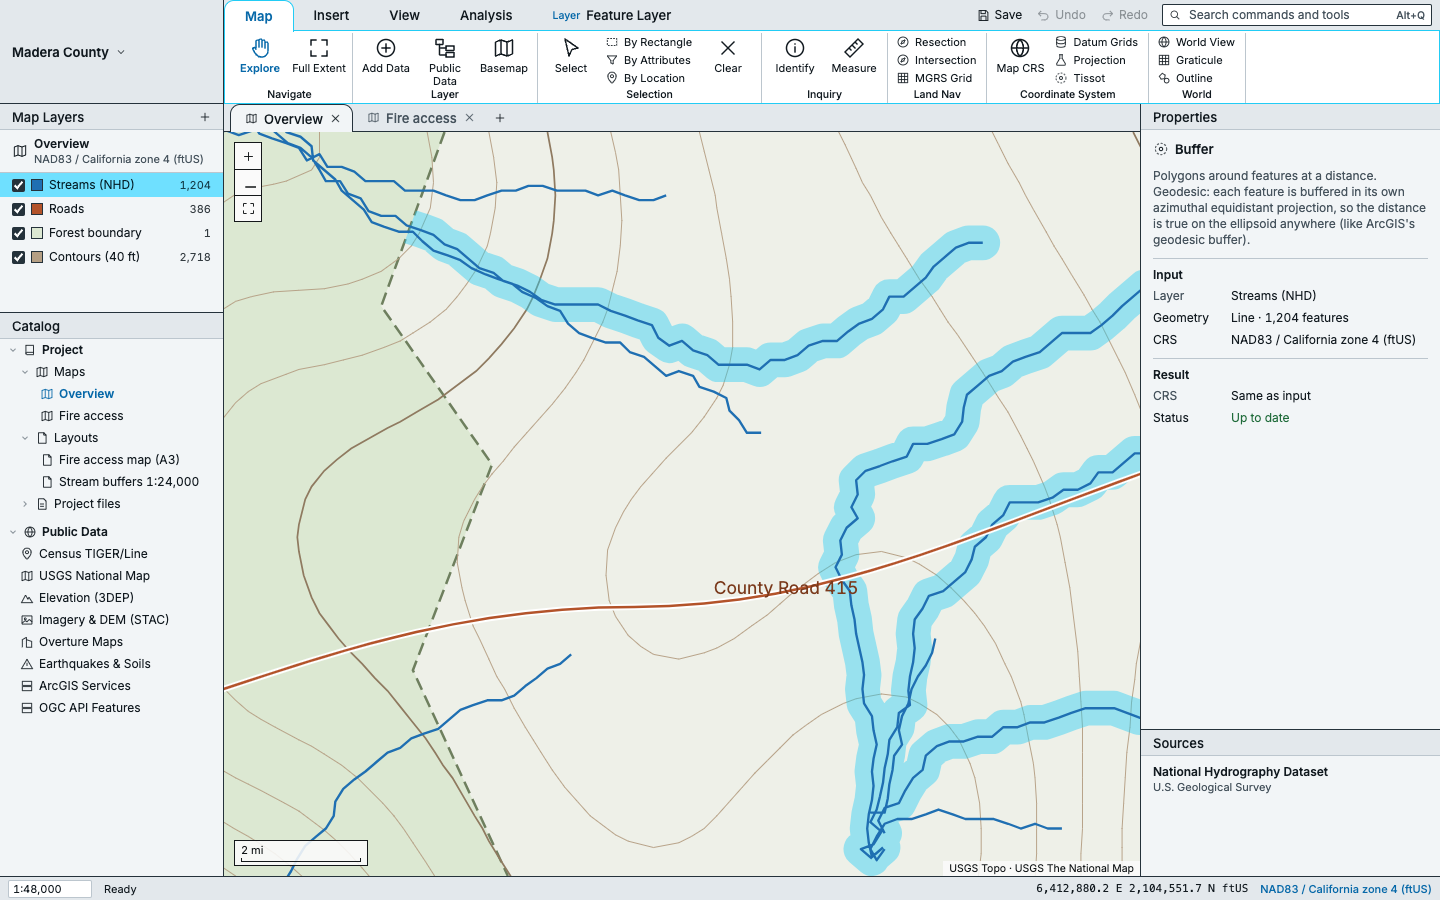
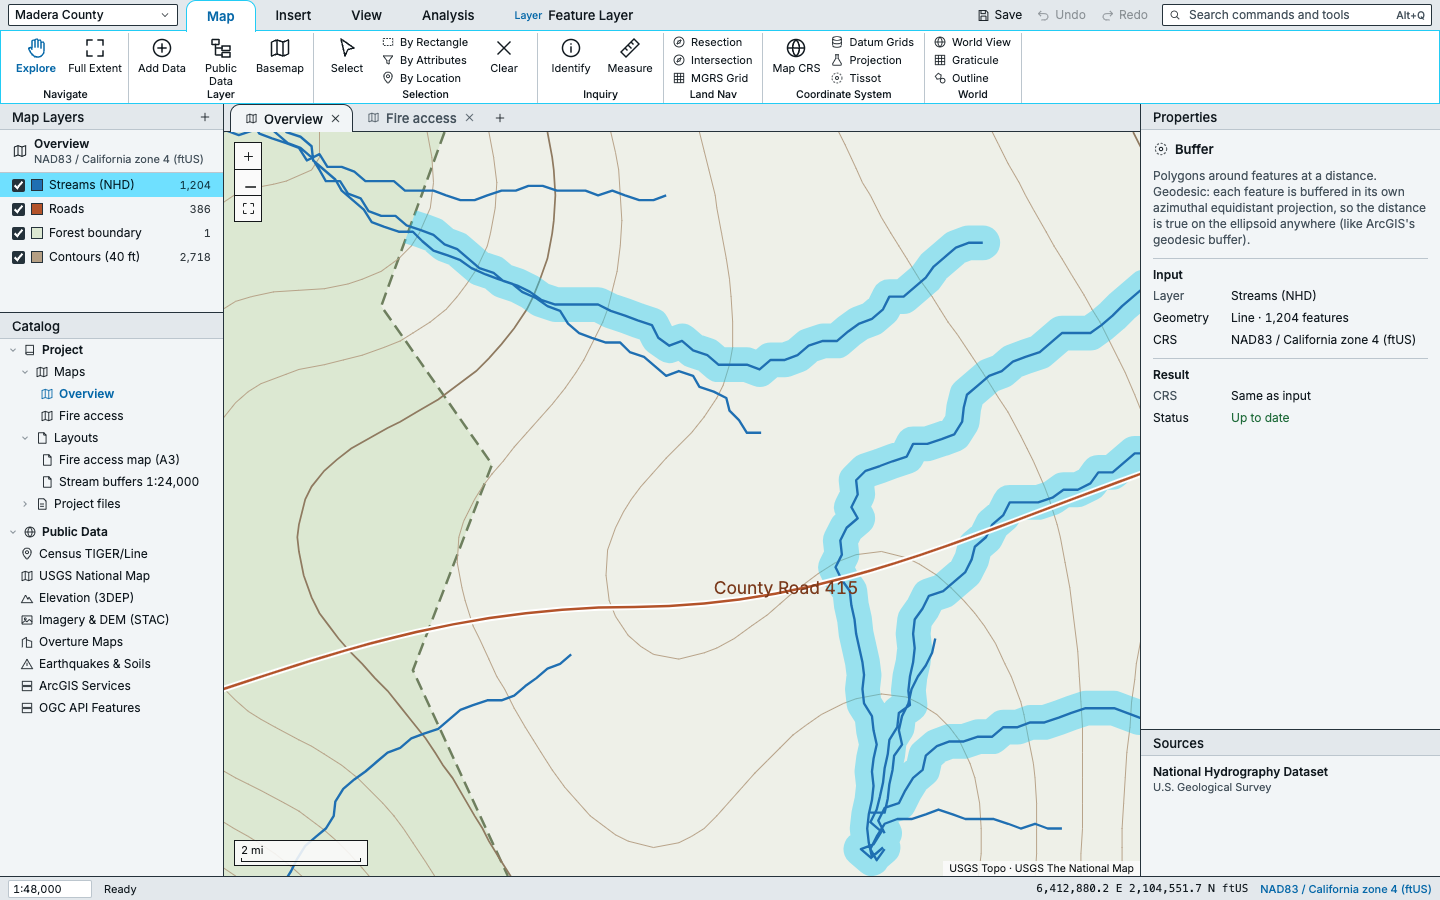
UI redesign mock-ups: full-width toolbar, project menu as a small box in the tab row [skip ci]

Changed region(s): [[0.0, 0.0, 0.8438, 0.1244]]

diff --git a/docs/design/layout-options-mockup.html b/docs/design/layout-options-mockup.html
@@ -98,6 +98,9 @@ button.it.w{width:100%;text-align:left}.it:hover{background:var(--hover)}.it.sel
 .mlow{display:grid;grid-template-columns:1fr 1fr;gap:16px}.mlow h3{margin:0 0 6px;font:600 13px/18px Inter,system-ui,sans-serif}.mlow table{border-collapse:collapse;width:100%;background:var(--surface-2)}.mlow th,.mlow td{border:1px solid var(--rule-soft);padding:3px 8px;text-align:left;font-size:12px;line-height:16px}.mlow th{font-weight:600;white-space:nowrap;width:96px}.rules{margin:0;padding-left:16px;line-height:18px}
 .qa{display:flex;align-items:center;gap:2px;margin:0 8px 4px 0;height:22px}.qa button{display:inline-flex;align-items:center;gap:4px;height:22px;padding:0 6px;font-size:12px;line-height:16px;border-radius:var(--r-control)}.qa button svg{font-size:15px}.qa button:hover:not(:disabled){background:var(--hover)}.qa button:disabled{opacity:.42}
 .qat b{flex:1;display:flex;align-items:center}.backmap{flex:1;border-top:1px solid var(--rule-soft)}
+.top{grid-template-columns:minmax(0,1fr)}
+.pbox{flex:none;width:170px;height:22px;margin:0 8px 4px 8px;padding:0 6px;background:var(--surface-2);border:1px solid var(--rule);border-radius:var(--r-control);font:500 12px/16px Inter,system-ui,sans-serif;display:flex;align-items:center;justify-content:space-between;align-self:flex-end}.pbox svg{font-size:11px}
+.tabs .backmap{flex:none;height:22px;margin:0 10px 4px 0;padding:0 6px;align-self:flex-end;font:500 12px/16px Inter,system-ui,sans-serif;display:inline-flex;align-items:center;gap:4px}.tabs .backmap:hover{background:var(--hover)}
 </style>
 </head>
 <body><svg width="0" height="0" style="position:absolute" aria-hidden="true"><defs>
@@ -246,9 +249,9 @@ const page=(u,extras="")=>{const c=k=>sel===k?"selbox":"";return `<div class="pa
  <div class="el na ${c("north")}" data-el="north" style="left:calc(var(--u)*207);top:calc(var(--u)*106);width:calc(var(--u)*14)">N<br>↑</div>
  <div class="el src ${c("sources")}" data-el="sources" style="left:calc(var(--u)*207);top:calc(var(--u)*182);width:calc(var(--u)*62)">NAD83 / California zone 4 (ftUS). Sources: USGS NHD; U.S. Census TIGER/Line; USGS 3DEP. Basemap: none.</div>
  ${extras}</div>`};
-const qat=`<div class="qat"><b>Madera County</b><button class="backmap">${ic("map")}Back to Map</button></div>`;
+const qat=``;
 const tabNames=()=>opt==="B"?RAIL_TABS:Object.keys(TABS);
-const tabsHtml=()=>`<div class="tabs" role="tablist">${tabNames().map(t=>`<button class="tab ${t===tab?"on":""}" role="tab" aria-selected="${t===tab}" data-tab="${t}">${t}</button>`).join("")}${sel==="frame"?`<button class="tab ctxtab ${tab==="Map Frame"?"on":""}" role="tab" data-tab="Map Frame"><small>Selected</small>Map Frame</button>`:""}<span class="sp"></span><div class="qa"><button>${ic("save")}Save</button><button>${ic("undo")}Undo</button><button>${ic("redo")}Redo</button></div><div class="search">${ic("search")}Search commands</div></div>`;
+const tabsHtml=()=>`<div class="tabs" role="tablist"><button class="pbox"><span>Madera County</span>${ic("chev")}</button><button class="backmap">${ic("map")}Back to Map</button>${tabNames().map(t=>`<button class="tab ${t===tab?"on":""}" role="tab" aria-selected="${t===tab}" data-tab="${t}">${t}</button>`).join("")}${sel==="frame"?`<button class="tab ctxtab ${tab==="Map Frame"?"on":""}" role="tab" data-tab="Map Frame"><small>Selected</small>Map Frame</button>`:""}<span class="sp"></span><div class="qa"><button>${ic("save")}Save</button><button>${ic("undo")}Undo</button><button>${ic("redo")}Redo</button></div><div class="search">${ic("search")}Search commands</div></div>`;
 const cmd=c=>`<button class="${c.small?"sm":"lg"}" data-cmd="${esc(c.l)}">${ic(c.i)}<span>${esc(c.l)}${c.menu?" ▾":""}</span></button>`;
 const groupsHtml=g=>g.map(([l,it])=>{const sm=it.filter(c=>c.small),lg=it.filter(c=>!c.small);return `<div class="grp"><div>${lg.map(cmd).join("")}${sm.length?`<div class="rcol">${sm.map(cmd).join("")}</div>`:""}</div><div class="gl">${l}</div></div>`}).join("");
 const curTab=()=>tab==="Map Frame"?FRAME_TAB:TABS[tab]||TABS[tabNames()[0]];

diff --git a/docs/design/ui-redesign-mockup.html b/docs/design/ui-redesign-mockup.html
@@ -305,6 +305,12 @@ input[type=color]{width:30px;height:26px;padding:0;border:1px solid var(--rule);
 .tree button.cur{color:var(--link);font-weight:600}
 .crsrow small{white-space:nowrap;overflow:hidden;text-overflow:ellipsis}
 .qa{display:flex;align-items:center;gap:2px;margin:0 8px 4px 0;height:22px}.qa button{display:inline-flex;align-items:center;gap:4px;height:22px;padding:0 6px;font-size:12px;line-height:16px;border-radius:var(--r-control)}.qa button svg{font-size:15px}.qa button:hover:not(:disabled){background:var(--hover)}.qa button:disabled{opacity:.42}
+/* v6: toolbar is the full window width; project menu is a small box in the tab row */
+.app{grid-template-rows:104px minmax(0,1fr) 24px}
+.top{grid-template-columns:minmax(0,1fr)}
+.qat{display:contents}
+.qat-project{flex:none;width:170px;height:22px;margin:0 8px 4px 8px;padding:0 6px;background:var(--surface-2);border:1px solid var(--rule);border-radius:var(--r-control);font:500 12px/16px Inter,system-ui,sans-serif;justify-content:space-between;align-self:flex-end}
+.qat-project:hover{background:var(--surface-2);outline:1px solid var(--rule)}
 </style>
 </head>
 <body>
@@ -365,11 +371,9 @@ input[type=color]{width:30px;height:26px;padding:0;border:1px solid var(--rule);
   <span>Everything responds. Dialogs that already exist in the app stop at a short note. Shift+A adds a tool.</span></div>
 <div class="app">
   <header class="top">
-    <div class="qat" role="toolbar" aria-label="Project and quick access">
-      <button class="qat-project" id="qatProject" aria-haspopup="menu"><span id="projName">Madera County</span><svg class="i" style="font-size:12px"><use href="#chev"/></svg></button>
-      </div>
+    
     <div class="rib">
-      <div class="tabs" role="tablist" aria-label="Ribbon" id="tabs"><span class="sp"></span><div class="qa" role="toolbar" aria-label="Quick access"><button data-save><svg class="i"><use href="#save"/></svg>Save</button><button data-undo><svg class="i"><use href="#undo"/></svg>Undo</button><button data-redo><svg class="i"><use href="#redo"/></svg>Redo</button></div><label class="search"><svg class="i"><use href="#search"/></svg><input id="topSearch" aria-label="Search commands and tools" placeholder="Search commands and tools" autocomplete="off"><kbd>Alt+Q</kbd></label></div>
+      <div class="tabs" role="tablist" aria-label="Ribbon" id="tabs"><button class="qat-project" id="qatProject" aria-haspopup="menu"><span id="projName">Madera County</span><svg class="i" style="font-size:12px"><use href="#chev"/></svg></button><span class="sp"></span><div class="qa" role="toolbar" aria-label="Quick access"><button data-save><svg class="i"><use href="#save"/></svg>Save</button><button data-undo><svg class="i"><use href="#undo"/></svg>Undo</button><button data-redo><svg class="i"><use href="#redo"/></svg>Redo</button></div><label class="search"><svg class="i"><use href="#search"/></svg><input id="topSearch" aria-label="Search commands and tools" placeholder="Search commands and tools" autocomplete="off"><kbd>Alt+Q</kbd></label></div>
       <div class="band" id="band" role="tabpanel"></div>
     </div>
   </header>

diff --git a/docs/UI_REDESIGN_PLAN.md b/docs/UI_REDESIGN_PLAN.md
@@ -134,7 +134,7 @@ Not offered: EOX Sentinel-2 cloudless (its licence restricts commercial use), an
 
 | What | Where | Why |
 |---|---|---|
-| Project name and menu | Top-left cell, as wide as the left column | Reference. |
+| Project name and menu | Small box at the far left of the tab row, styled like the search bar (user, 2026-11-03; replaces the reference's top-left cell) | Toolbar gets the full window width. |
 | Save, Undo, Redo | Tab row, upper right, in line with the tabs and search (user, 2026-11-03; replaces the reference) | Undo acts on whatever is active (layout, else node tree). |
 | Commands | Ribbon: Map, Insert, View, Analysis, plus contextual tabs | Reference. |
 | Search (commands, tools, layers) | Tab row, right; Alt+Q | Reference. Uses the same matcher as the menu. |
@@ -164,7 +164,7 @@ Not offered: EOX Sentinel-2 cloudless (its licence restricts commercial use), an
 
 ## 4. Screen by screen
 
-- **Top-left cell.** Project name with a chevron (New, Open, Save As). In a layout it also holds Back to Map. Its width follows the left column (minimum 190 px), or 190 px when that column is closed.
+- **Project box.** Far left of the tab row, 22 px high like the search bar: project name with a chevron (New, Open, Save As), truncating long names. The ribbon band spans the full window width beneath it. In a layout, Back to Map sits beside it.
 - **Ribbon.** Tab row 30 px on `--surface-0`, with Save, Undo, Redo and search at the right; active tab is `--band` with `--r-tab`, joined to the band. Band 74 px with `--band-text` icons and labels; rule between groups; `--band-on-*` for checked tools. `ribbonFit.ts` keeps adapting to width, measuring the smaller space. Contextual tabs keep their band name as a small `--link` label, now beside the tab name. Keytips stay.
 - **Analysis tab.** Add Tool (large), Run, Node Editor, Attribute Table, and a shelf of favourite tools (the old Tool Gallery, now showing favourites and recents).
 - **Map Layers.** Map row with the CRS always visible, then layers; active layer is `--sel-bg`. Drawing order, drag, multi-select and context menus unchanged. Layouts section leaves.

diff --git a/docs/DECISIONS.md b/docs/DECISIONS.md
@@ -6,7 +6,7 @@ Newest first. One entry per decision that isn't obvious from the code; details l
 
 - **Look:** cool flat panels, hairline rules, one accent used only as an outline around the open tab and its pane; selected text is blue; selected rows use a lighter, brighter highlight. Rounded node cards. All colours user-customisable, with text colour computed so a label can't become unreadable; saved per user, not per project.
 - **Tools:** the Shift+A menu is the way in; the Geoprocessing pane is removed. Plain-language words live in one engine table keyed by tool id (`nodes/keywords.rs`), so `ToolSpec` stays the one catalogue.
-- **Layout of the window:** the user's wireframe, except Save/Undo/Redo, which the user moved to the tab row. The Data tab goes. Bottom panel exists only while the Node Editor or Attribute Table is open. Sources is the unlabelled lower-right box. Catalog drops its file browser and folder connections, and holds Maps, Layouts and one Public Data tree.
+- **Layout of the window:** the user's wireframe, except that the user moved Save/Undo/Redo and the project menu into the tab row and made the toolbar the full window width, so there is no top-left cell. The Data tab goes. Bottom panel exists only while the Node Editor or Attribute Table is open. Sources is the unlabelled lower-right box. Catalog drops its file browser and folder connections, and holds Maps, Layouts and one Public Data tree.
 - **Multiple maps:** a map owns its name, CRS, basemap, view and layer list. Layer data, sources and node trees belong to the project. Style stays shared in this version. App name stays GIS Studio.
 - **Layout editor:** option B with add-ons 1, 2, 3, 4, 7, 9; five tabs that each answer one question, plus a Map Frame tab while a frame is selected.
 
